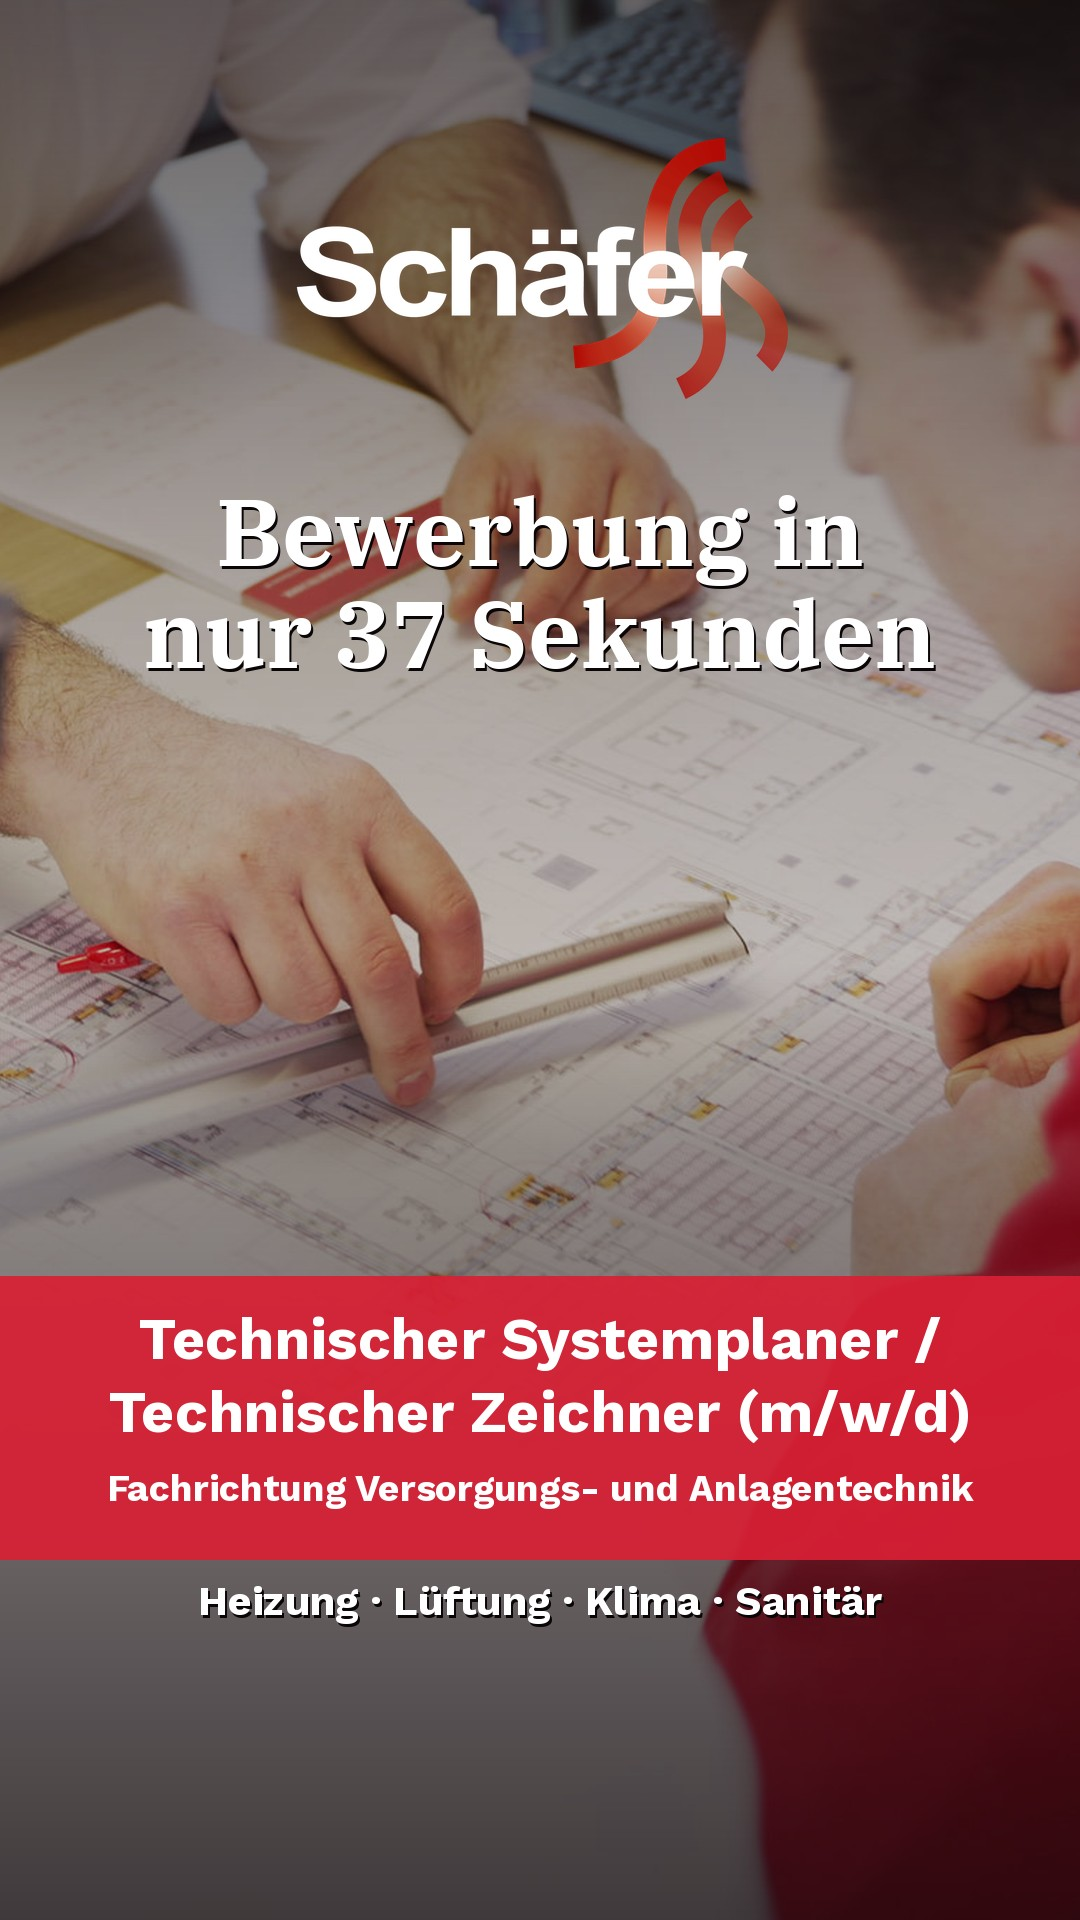
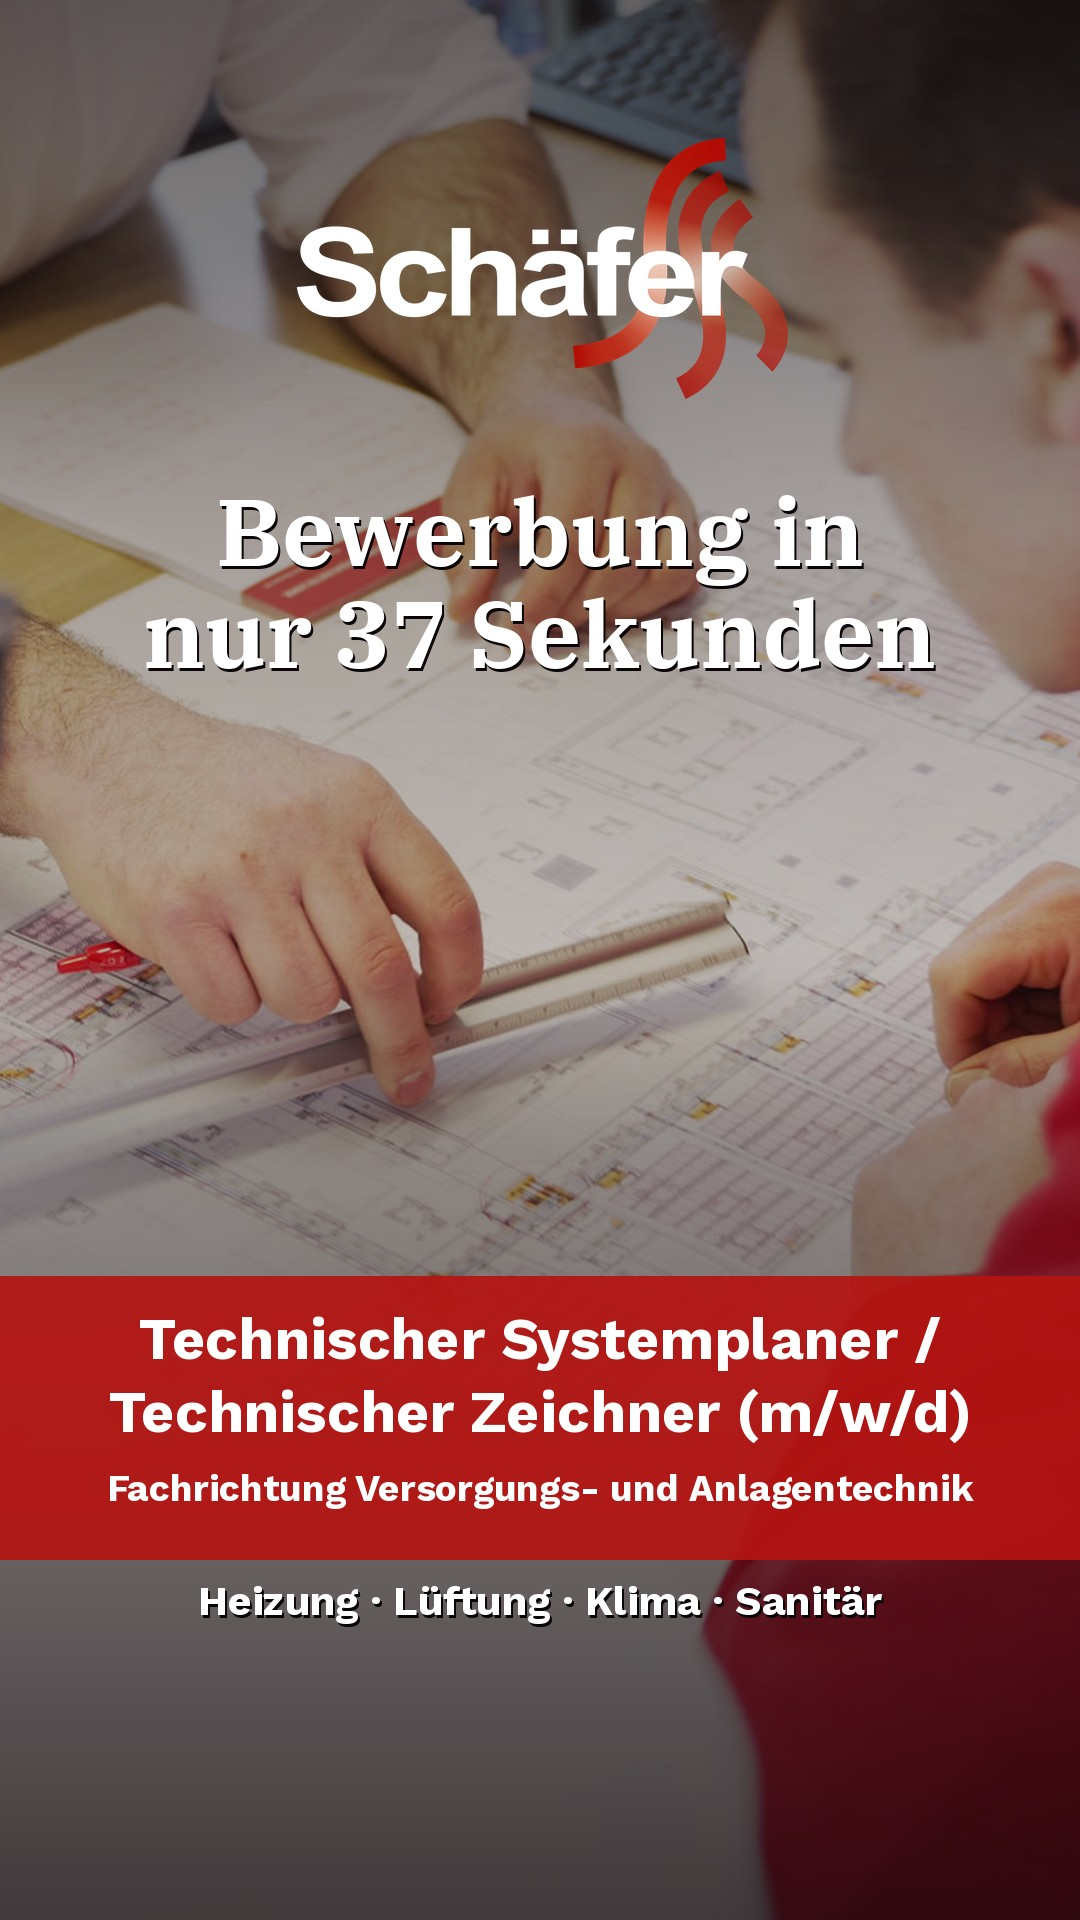
CI-Rot vereinheitlichen auf offizielles Feuerrot (RAL 3000, RGB 180/20/18)
- Marken-Rot der Seite von #d81f34 auf #b41412 (Online-CI-Wert) umgestellt
  inkl. abgeleiteter Töne, Verläufe, Schatten, theme-color
- Creatives: rotes Schriftfeld auf #b41412 angepasst
- Farbvorgabe laut Kunde (Pascal): RAL 3000 Feuerrot / Online RGB 180,20,18

Claude-Session: https://claude.ai/code/session_0195Z1PjpkPHucqAk5ooUwCA

Changed region(s): [[0.0, 0.6562, 1.0, 0.8125]]

diff --git a/index.html b/index.html
@@ -7,7 +7,7 @@
 <title>Karriere bei Schäfer · Technischer Systemplaner / Technischer Zeichner (m/w/d) in Dotternhausen</title>
 <meta name="description" content="Schäfer intelligente Haustechnik GmbH in Dotternhausen sucht einen Technischen Systemplaner / Technischen Zeichner (m/w/d) mit Erfahrung in SHK. Festanstellung, Vollzeit, sofortiger Einstieg. Jetzt in nur 37 Sekunden bewerben." />
 <meta name="robots" content="index, follow, max-image-preview:large" />
-<meta name="theme-color" content="#d81f34" />
+<meta name="theme-color" content="#b41412" />
 <meta name="geo.region" content="DE-BW" />
 <meta name="geo.placename" content="Dotternhausen" />
 
@@ -54,13 +54,13 @@
   --ink:#23262b;
   --ink-soft:#4c515a;
   --ink-mute:#7c828c;
-  /* Schäfer-Rot (aus dem Logo / Creative, #d81f34) */
+  /* Schäfer-Rot – offizieller CI-Ton (RAL 3000 Feuerrot, Online RGB 180/20/18) */
   --brand-900:#23262b;   /* Anthrazit – Headings, Hero-Basis, Footer */
-  --brand-700:#b3162a;
-  --brand:#d81f34;
-  --brand-dark:#a5152a;
-  --brand-soft:#fbe7ea;
-  --grad:linear-gradient(125deg,#2a1114 0%,#8a0f1c 44%,#d81f34 100%);
+  --brand-700:#9d1210;
+  --brand:#b41412;
+  --brand-dark:#8e0f0d;
+  --brand-soft:#fbe7e6;
+  --grad:linear-gradient(125deg,#2a0d0c 0%,#7a0d0b 44%,#b41412 100%);
   --f-display:"Nunito Sans",sans-serif;
   --f-body:"Nunito Sans",sans-serif;
   --radius:16px;
@@ -70,7 +70,7 @@
 html{scroll-behavior:smooth}
 body{font-family:var(--f-body);background:var(--bg);color:var(--ink);line-height:1.6;-webkit-font-smoothing:antialiased;overflow-x:hidden;-webkit-text-size-adjust:100%;text-size-adjust:100%}
 ::selection{background:var(--brand);color:#fff}
-button,a,label,input{-webkit-tap-highlight-color:rgba(216,31,52,.18)}
+button,a,label,input{-webkit-tap-highlight-color:rgba(180,20,18,.18)}
 .shell{max-width:1160px;margin:0 auto;padding:0 24px}
 h1,h2,h3{font-family:var(--f-display);font-weight:800;line-height:1.15;letter-spacing:-.01em;color:var(--brand-900)}
 a{color:inherit;text-decoration:none}
@@ -88,8 +88,8 @@ img{max-width:100%;display:block}
 .topbar__nav a:hover{color:var(--brand)}
 .btn{display:inline-flex;align-items:center;justify-content:center;gap:9px;font-family:var(--f-display);font-weight:800;font-size:16px;padding:14px 28px;border-radius:10px;border:none;cursor:pointer;transition:transform .18s ease,box-shadow .18s ease,background .18s ease;white-space:nowrap}
 .btn svg{width:18px;height:18px;stroke:currentColor;flex:0 0 auto}
-.btn--primary{background:var(--brand);color:#fff;box-shadow:0 8px 24px rgba(216,31,52,.32)}
-.btn--primary:hover{background:var(--brand-dark);transform:translateY(-2px);box-shadow:0 14px 32px rgba(216,31,52,.4)}
+.btn--primary{background:var(--brand);color:#fff;box-shadow:0 8px 24px rgba(180,20,18,.32)}
+.btn--primary:hover{background:var(--brand-dark);transform:translateY(-2px);box-shadow:0 14px 32px rgba(180,20,18,.4)}
 .btn--ghost{background:#fff;color:var(--brand);border:1.5px solid var(--line-strong)}
 .btn--ghost:hover{border-color:var(--brand);color:var(--brand-dark)}
 .btn--white{background:#fff;color:var(--brand-900)}
@@ -106,7 +106,7 @@ img{max-width:100%;display:block}
 .hero__panel{position:relative;flex:0 0 56%;max-width:660px;display:flex;flex-direction:column;justify-content:center;padding:150px 48px 56px;color:#fff}
 .hero__panel>*{text-shadow:0 1px 14px rgba(20,8,10,.5)}
 .hero__cta .btn{text-shadow:none}
-.hero__panel::before{content:"";position:absolute;inset:0 auto 0 -100vw;width:calc(100vw + 62%);background:linear-gradient(112deg,rgba(20,12,13,.97) 0%,rgba(120,15,26,.9) 46%,rgba(216,31,52,.5) 100%);z-index:-1;border-radius:0 62% 62% 0 / 0 50% 50% 0;box-shadow:0 30px 80px rgba(20,10,12,.35)}
+.hero__panel::before{content:"";position:absolute;inset:0 auto 0 -100vw;width:calc(100vw + 62%);background:linear-gradient(112deg,rgba(20,12,13,.97) 0%,rgba(122,13,11,.9) 46%,rgba(180,20,18,.5) 100%);z-index:-1;border-radius:0 62% 62% 0 / 0 50% 50% 0;box-shadow:0 30px 80px rgba(20,10,12,.35)}
 .hero__logo{margin-bottom:26px}
 .hero__logo img{display:none;height:64px;width:auto}
 .hero__logo .brand__fallback b{font-family:var(--f-display);font-weight:900;font-size:38px;letter-spacing:.02em;color:#fff;line-height:1}
@@ -122,7 +122,7 @@ img{max-width:100%;display:block}
 @media(max-width:820px){
   .hero__inner{min-height:0}
   .hero__panel{flex:1 1 100%;max-width:none;padding:100px 22px 46px}
-  .hero__panel::before{inset:0;width:100%;border-radius:0;background:linear-gradient(180deg,rgba(20,12,13,.84) 0%,rgba(120,15,26,.9) 100%)}
+  .hero__panel::before{inset:0;width:100%;border-radius:0;background:linear-gradient(180deg,rgba(20,12,13,.84) 0%,rgba(122,13,11,.9) 100%)}
   .hero__media::after{background:linear-gradient(180deg,rgba(20,12,13,.2),rgba(20,12,13,.55))}
 }
 
@@ -224,7 +224,7 @@ section[id],.form-card{scroll-margin-top:80px}
 .field label{display:block;font-size:13.5px;font-weight:800;margin-bottom:7px;color:var(--brand-700)}
 .field input{width:100%;padding:14px 16px;font-size:16px;font-family:var(--f-body);font-weight:600;background:#fff;border:1.5px solid var(--line-strong);border-radius:10px;color:var(--ink);outline:none;transition:border-color .15s ease,box-shadow .15s ease}
 .field input::placeholder,.field textarea::placeholder{color:var(--ink-mute);font-weight:500}
-.field input:focus,.field textarea:focus,.field select:focus{border-color:var(--brand);box-shadow:0 0 0 3px rgba(216,31,52,.15)}
+.field input:focus,.field textarea:focus,.field select:focus{border-color:var(--brand);box-shadow:0 0 0 3px rgba(180,20,18,.15)}
 .field input.is-invalid,.field textarea.is-invalid,.field select.is-invalid{border-color:#e05252}
 .field textarea,.field select{width:100%;padding:14px 16px;font-size:16px;font-family:var(--f-body);font-weight:600;background:#fff;border:1.5px solid var(--line-strong);border-radius:10px;color:var(--ink);outline:none;transition:border-color .15s ease,box-shadow .15s ease}
 .field textarea{resize:vertical;min-height:108px;line-height:1.5}

diff --git a/tools_gen_creatives.py b/tools_gen_creatives.py
@@ -9,7 +9,7 @@ BILDER = "/home/user/schaefer-dotternhausen/bilder"
 OUT = "/home/user/schaefer-dotternhausen/creatives"
 os.makedirs(OUT, exist_ok=True)
 
-RED = (216, 31, 52)
+RED = (180, 20, 18)   # Schäfer-CI Feuerrot (RAL 3000), Online RGB 180/20/18
 LOGO = Image.open(os.path.join(BILDER, "schaefer-logo-weiss.png")).convert("RGBA")
 
 def f(path, size): return ImageFont.truetype(path, size)
